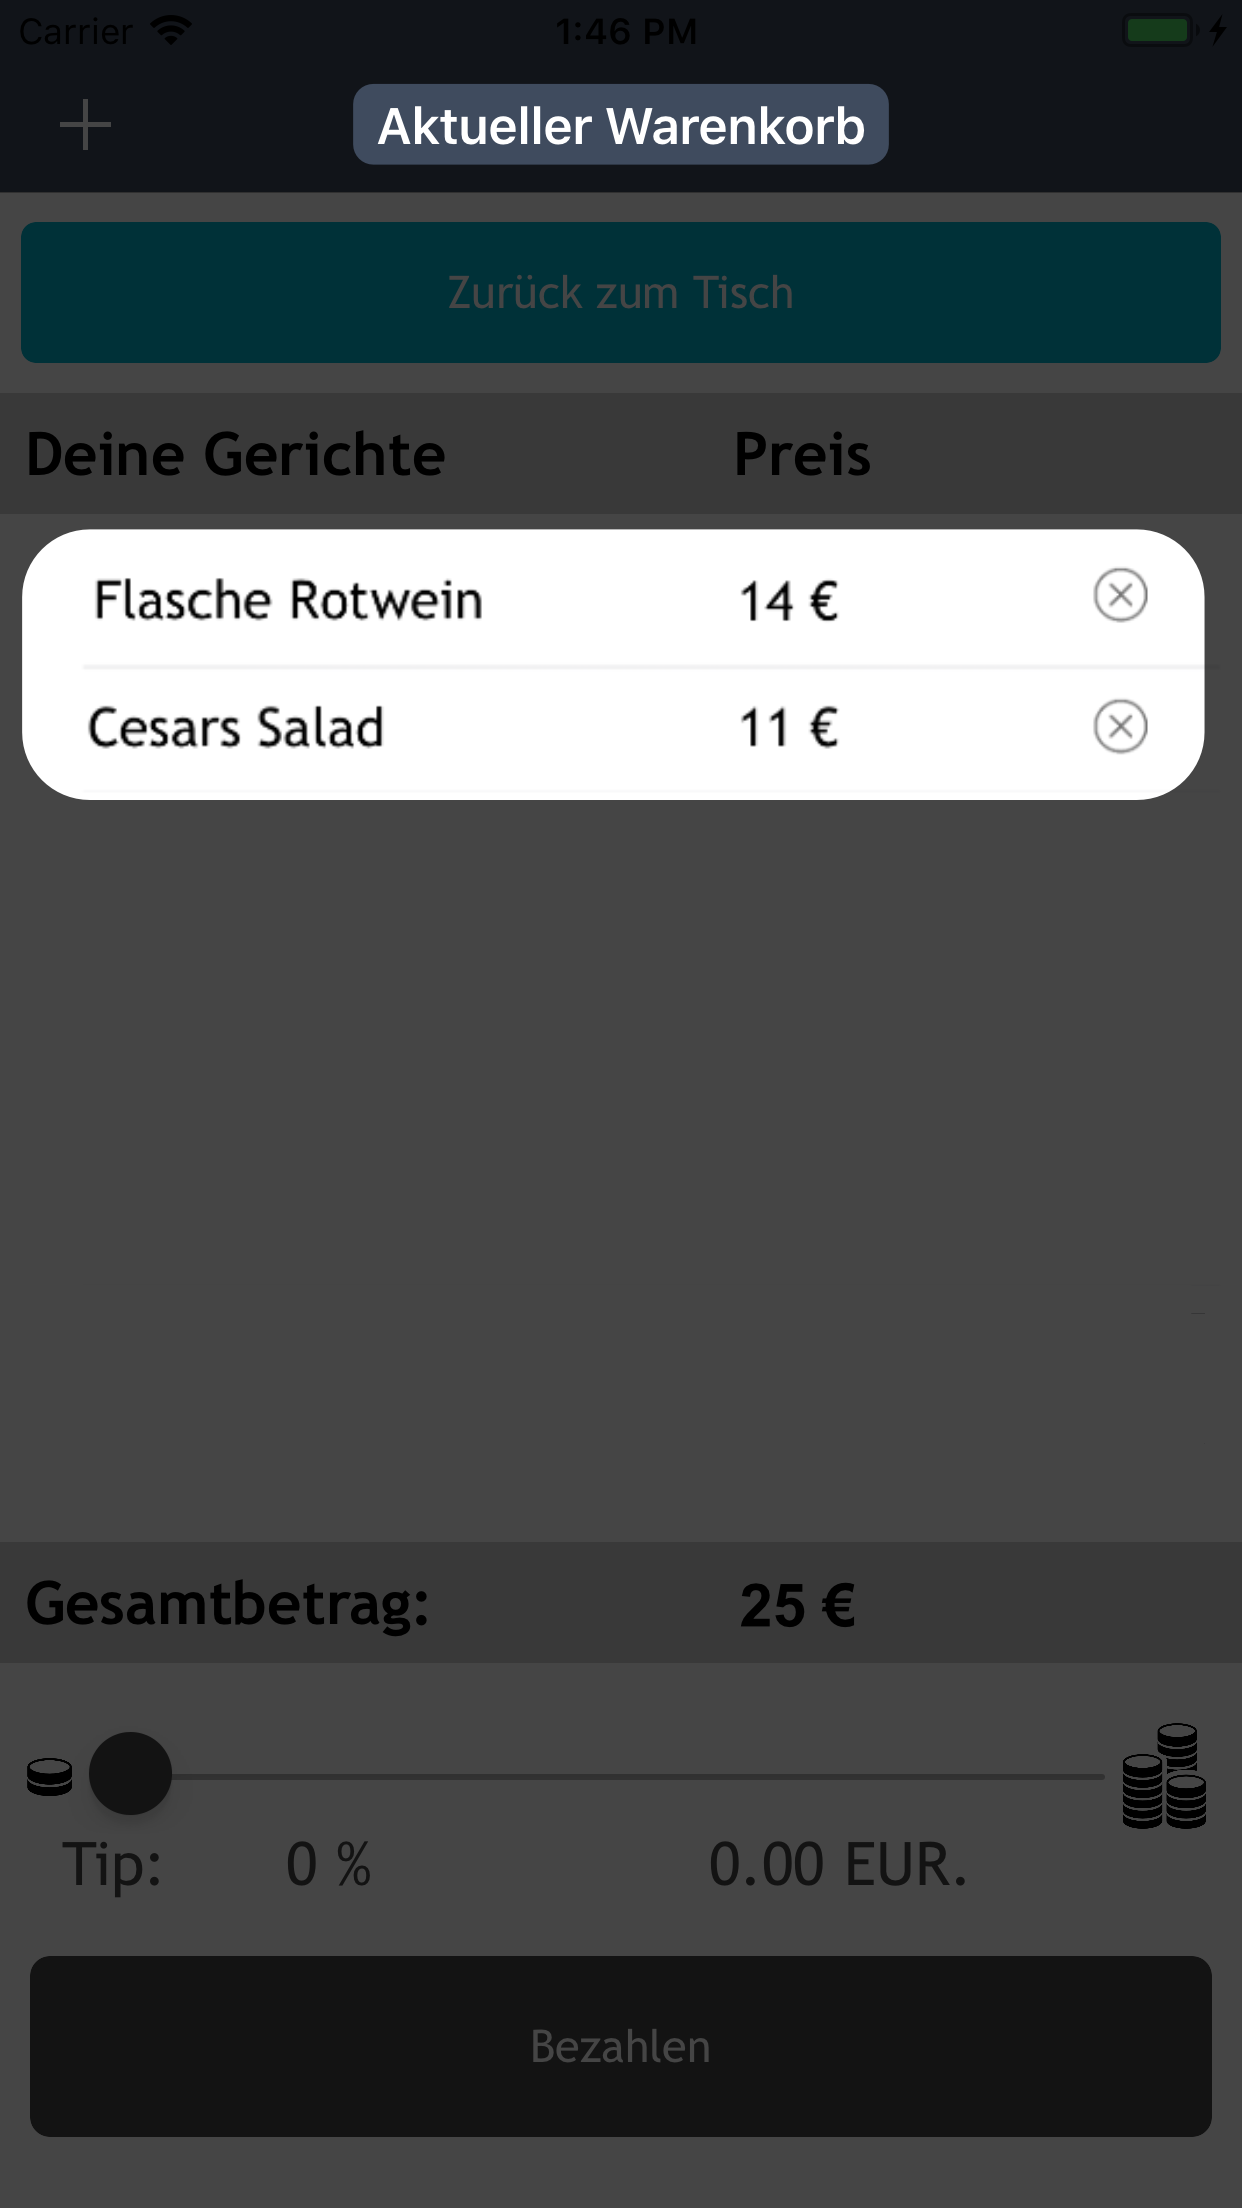
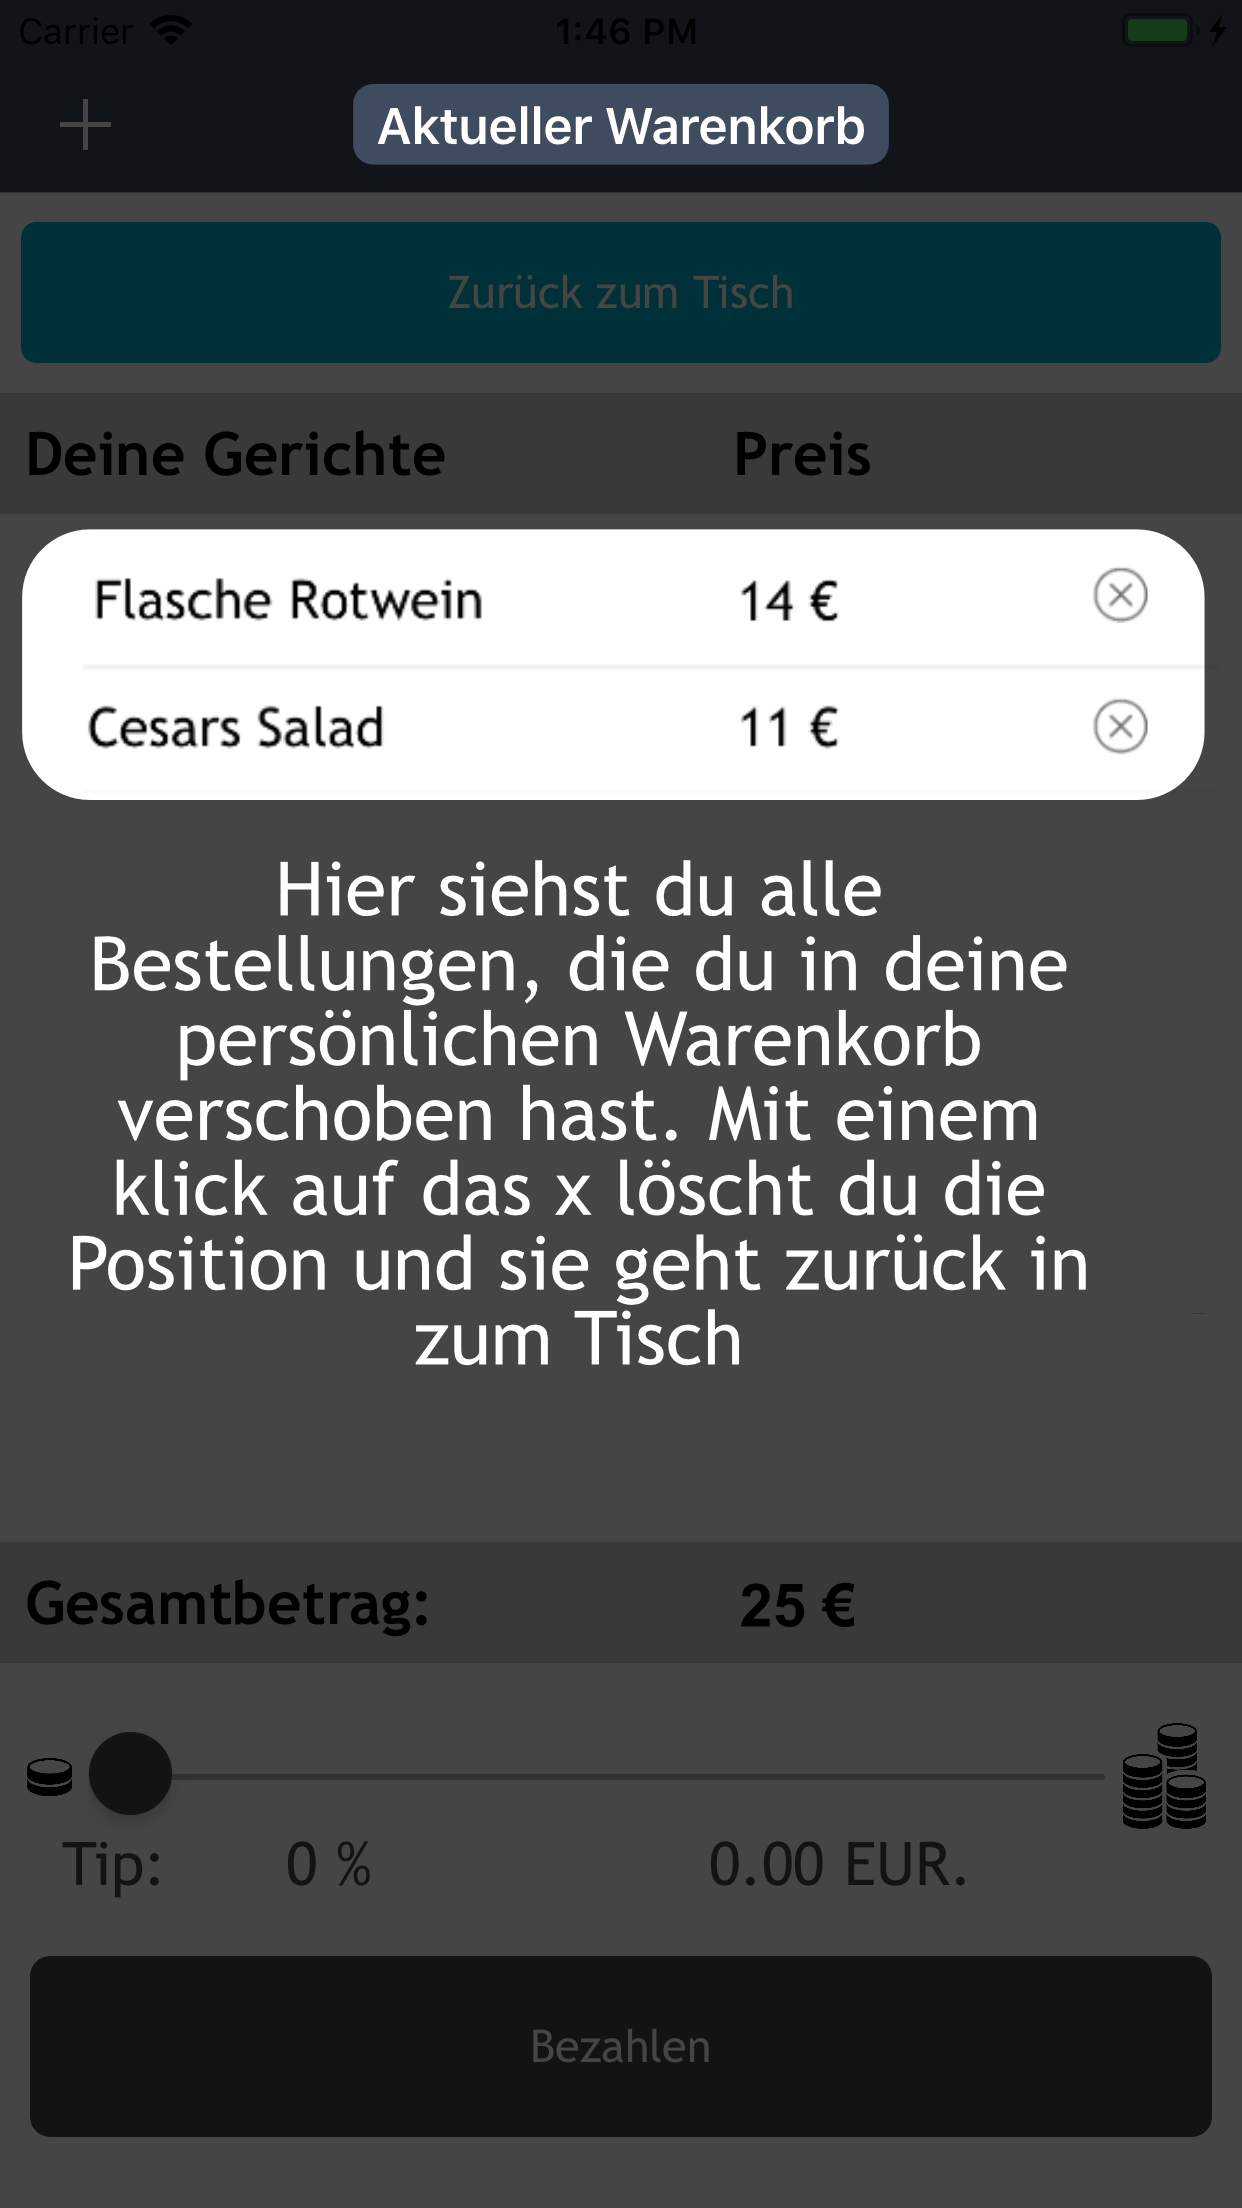
Coachmarks pages
added coachmark pages
without js commands
buttons currently not working

Changed region(s): [[0.0612, 0.375, 0.8873, 0.625]]

diff --git a/app/app.css b/app/app.css
@@ -82,8 +82,8 @@ components that have the btn class name.
     height: 50;
     font-weight: bold;
     background-color: white;
-    /* border-bottom-width: 2px;
-    border-bottom-color: rgb(233, 233, 233); */
+    border-bottom-width: 2px;
+    border-bottom-color: rgb(233, 233, 233);
     font-family: 'Trebuchet MS', 'Lucida Sans Unicode', 'Lucida Grande', 'Lucida Sans', Arial, sans-serif;
 }
 

diff --git a/app/views/Intro-myorders/Intro-myorders-page.css b/app/views/Intro-myorders/Intro-myorders-page.css
@@ -1,4 +1,4 @@
 .btngotit{
-    margin-top: 143%;
+    margin-top: 135%;
     height: 100%;
 }

diff --git a/app/views/intro-table-movemyorder/intro-table-movemyorder.css b/app/views/intro-table-movemyorder/intro-table-movemyorder.css
@@ -1,4 +1,4 @@
 .btngotit{
-    margin-top: 143%;
+    margin-top: 135%;
     height: 100%;
 }

diff --git a/app/views/intro-table-pick/intro-table-pick-page.css b/app/views/intro-table-pick/intro-table-pick-page.css
@@ -1,4 +1,4 @@
 .btngotit{
-    margin-top: 143%;
+    margin-top: 135%;
     height: 100%;
 }

diff --git a/app/views/intro-table-split/intro-table-split-page.css b/app/views/intro-table-split/intro-table-split-page.css
@@ -1,4 +1,4 @@
 .btngotit{
-    margin-top: 143%;
+    margin-top: 135%;
     height: 100%;
 }

diff --git a/app/views/Intro-game/Intro-game-page.css b/app/views/Intro-game/Intro-game-page.css
@@ -1,4 +1,4 @@
 .btngotit{
-    margin-top: 143%;
     height: 100%;
+    margin-top: 55%;
 }
